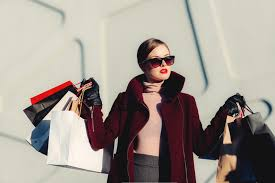
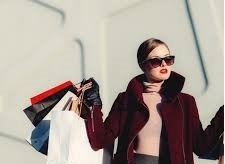
my first commit

diff --git a/index.html b/index.html
@@ -52,7 +52,7 @@
         </ol>
         <div class="carousel-inner">
           <div class="carousel-item active">
-            <img src="./b2.jpg" class="d-block w-100" alt="..."width="450px" height="510px" >
+            <img src="./b2.jpg" class="d-block w-100" alt="..."width="300px" height="510px" >
             <div class="carousel-caption d-none d-md-block">
                 <div class="container">
                     <div class="row ">
@@ -71,7 +71,7 @@
             </div>
           </div>
           <div class="carousel-item">
-            <img src="./b1.jpg" class="d-block w-100" alt="..." width="450px" height="510px">
+            <img src="./b1.jpg" class="d-block w-100" alt="..." width="300px" height="510px">
             <div class="carousel-caption d-none d-md-block">
                    
 
@@ -80,7 +80,7 @@
             
         
           <div class="carousel-item">
-            <img src="./ddd.jpg" class="d-block w-100" alt="..." width="450px" height="510px">
+            <img src="./ddd.jpg" class="d-block w-100" alt="..." width="300px" height="510px">
             <div class="carousel-caption d-none d-md-block">
                
             </div>
@@ -133,7 +133,7 @@
                 <img src="gallery2.jpg" alt="" width="300px" height="200px">
               </div>
               <div class="col-sm">
-               <img src="aaa.jpg" alt="" height="250px" width="300px">
+               <img src="aaa.jpg" alt="" height="230px" wwidth="164px">
               </div>
             </div>
           </div>
@@ -144,16 +144,17 @@
         <div class="container">
             <div class="row">
               <div class="col-sm">
-               <img src="gallery7.jpg" alt="" width="350px" height="300px">
+               <img src="gallery7b.jpg" alt="" width="350px" height="350px">
               </div>
               <div class="col-sm">
                 <img src="gallery8.jpg" alt="" height="350px" width="300px">
               </div>
               <div class="col-sm">
-              <img src="q.jpg" alt=""width="300px" height="390px">
+              <img src="q1.jpg" alt=""width="300px" height="350px">
               </div>
             </div>
           </div>
+      </div>
       </div>
       <div  id="e" class="fluid">
         <h3 id="f" class="display-3">Our Team</h3>
